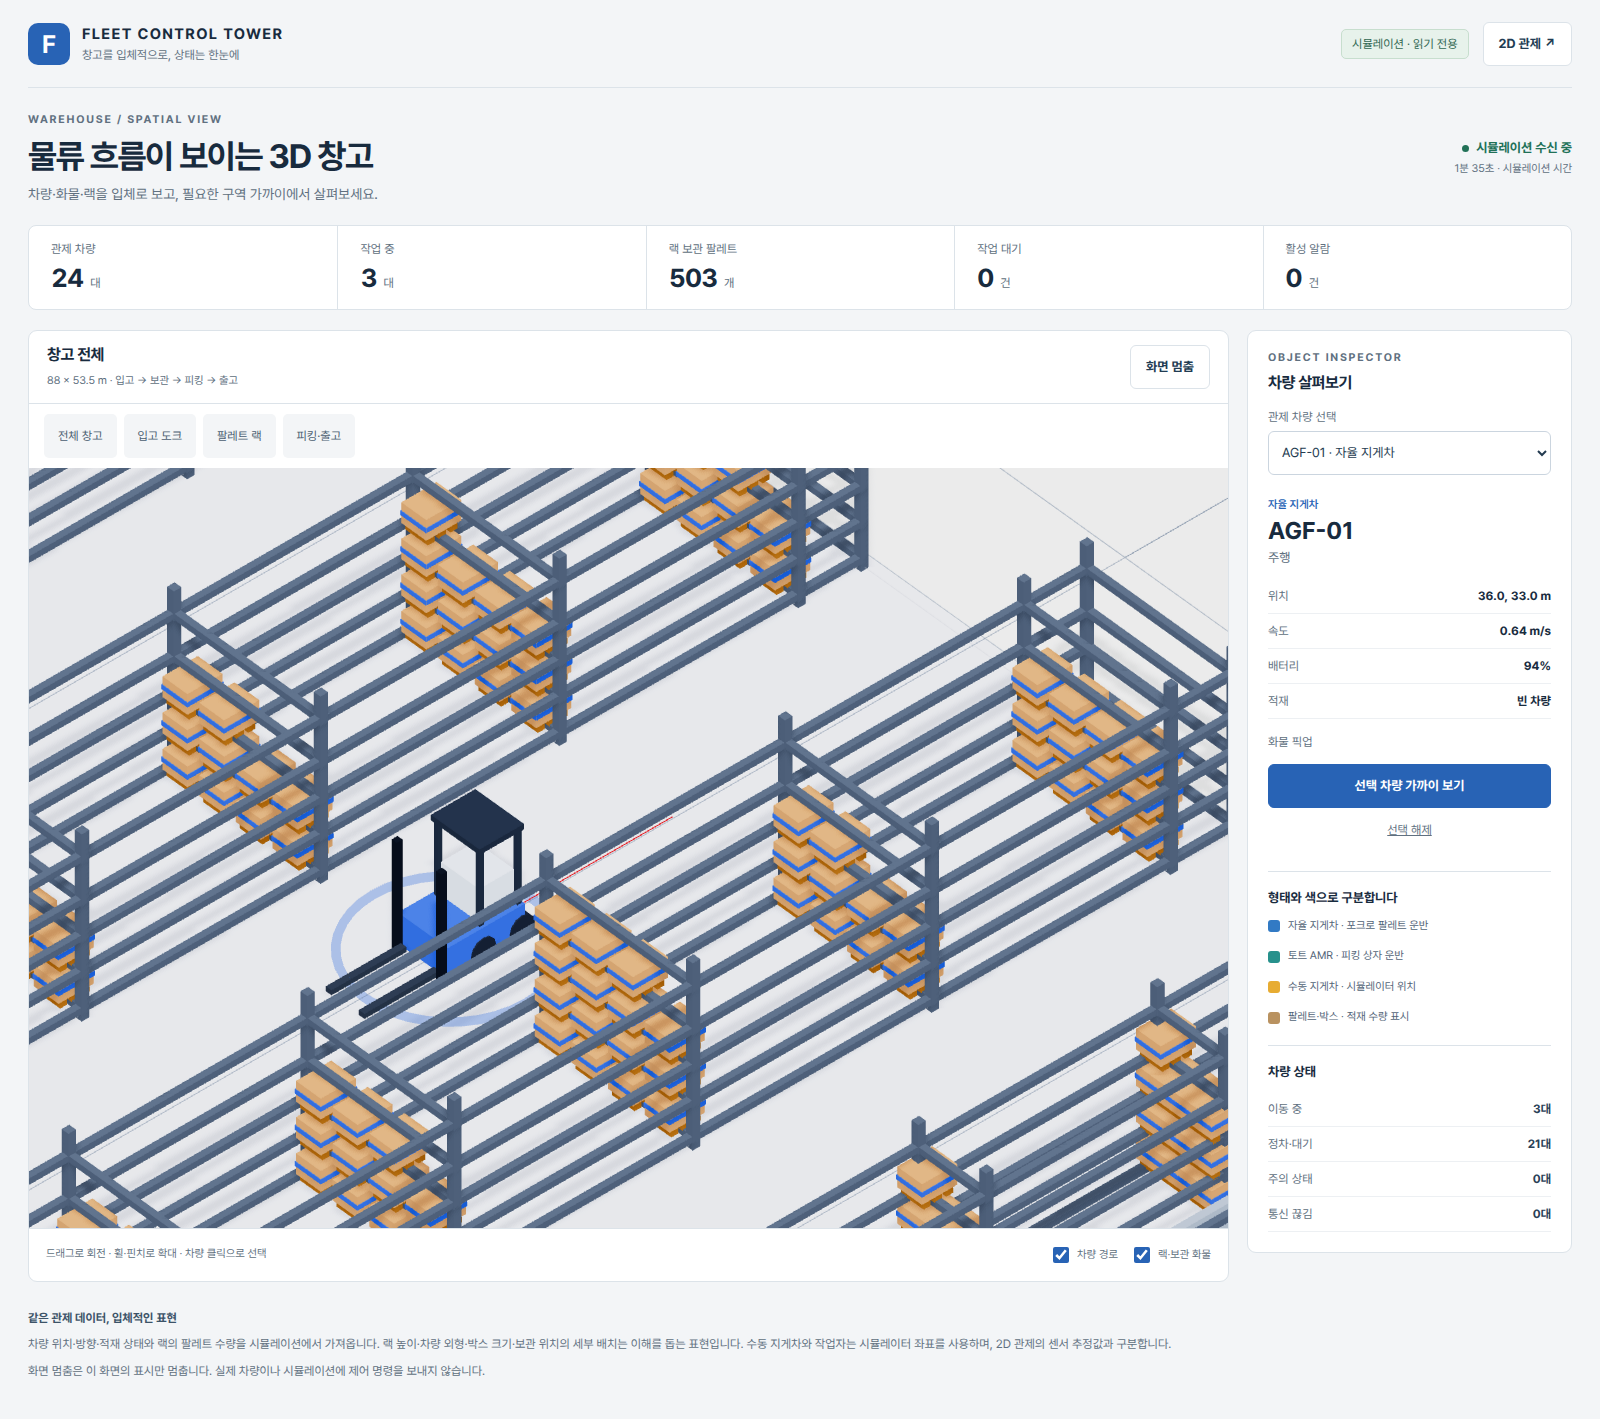
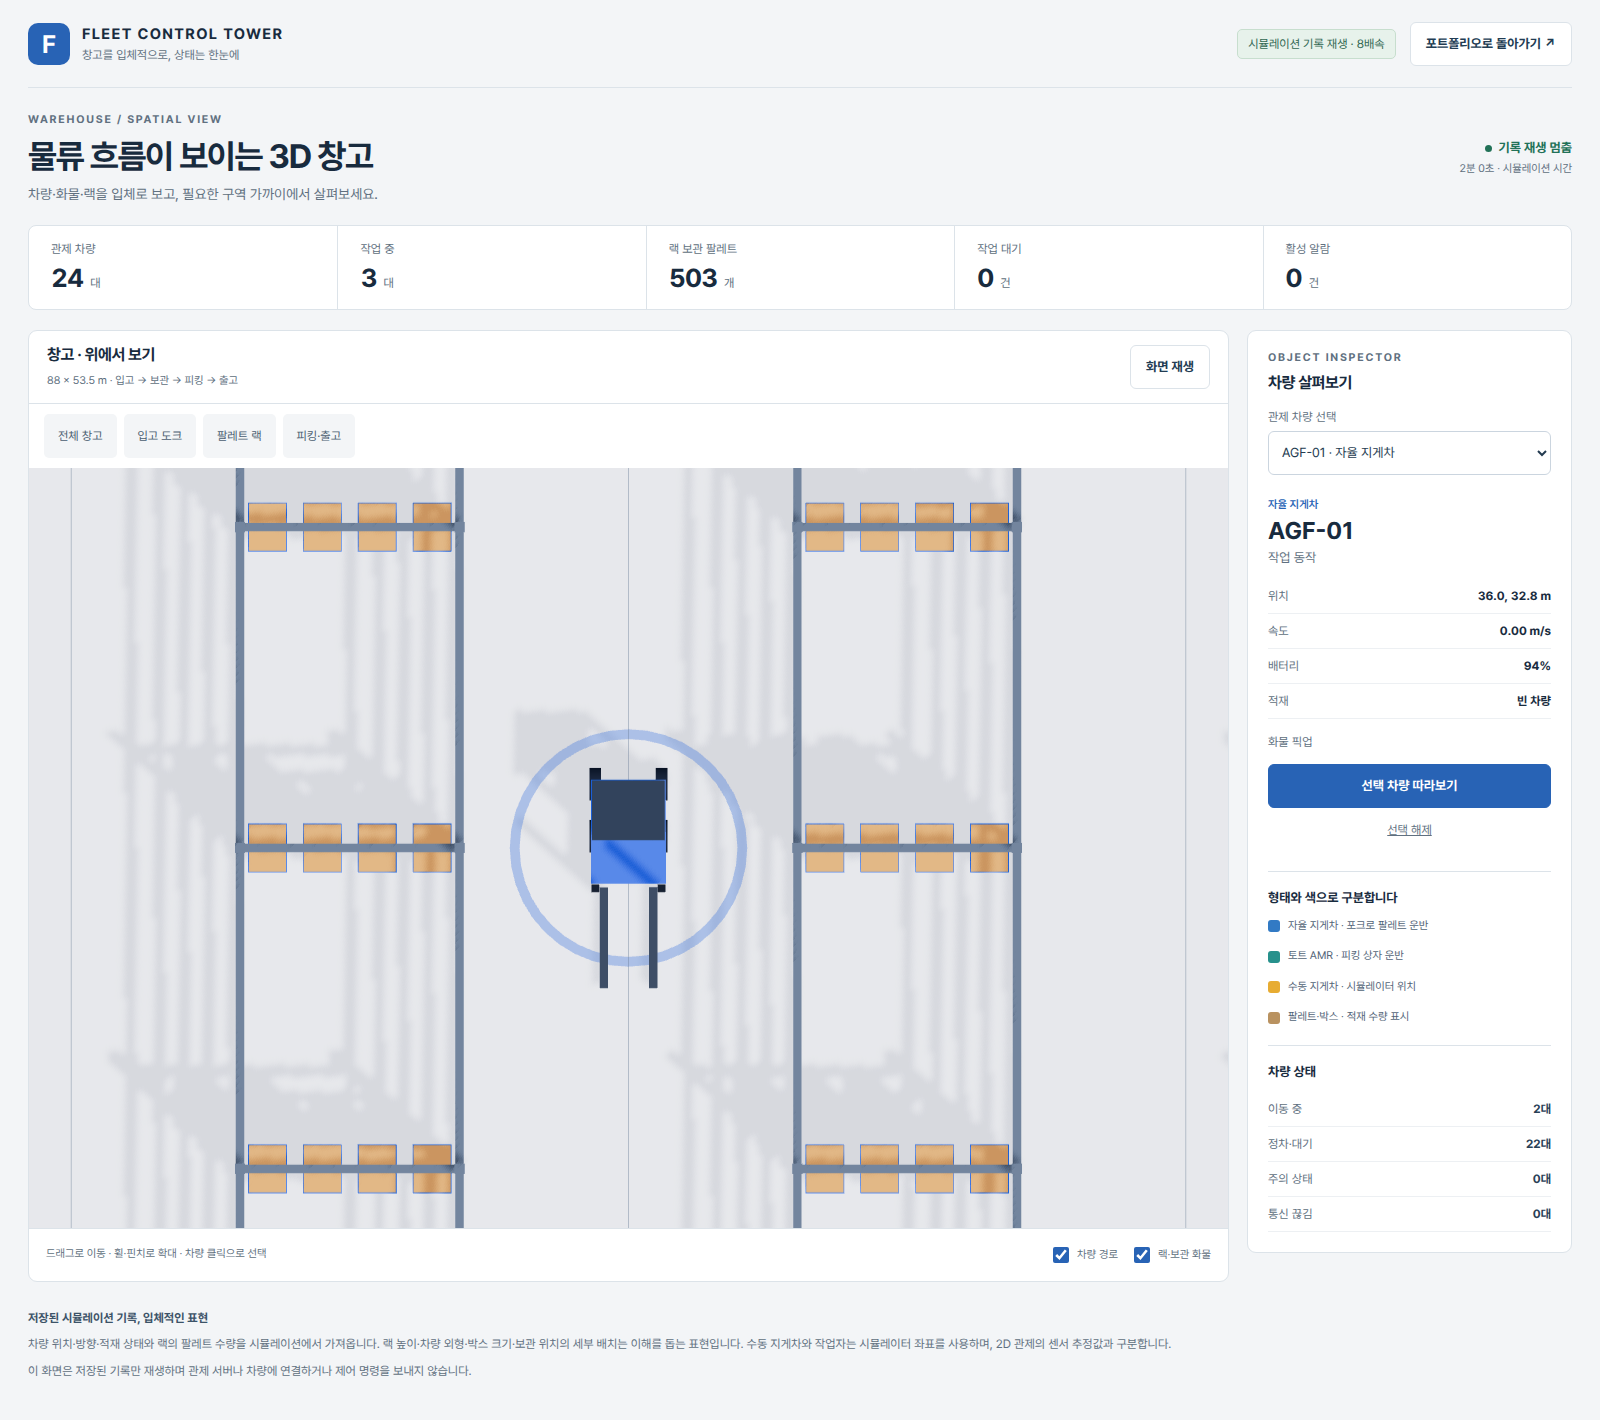
fix(viewer): 창고 시점을 수직 탑뷰로 고정

diff --git a/web3d/src/App.tsx b/web3d/src/App.tsx
@@ -141,14 +141,14 @@ export function App() {
     </section>
     <div className="workspace">
       <section className="scene-panel" aria-labelledby="scene-title">
-        <div className="scene-heading"><div><h2 id="scene-title">창고 전체</h2><span>{layout ? `${layout.width} × ${layout.height} m` : '지도 준비 중'} · 입고 → 보관 → 피킹 → 출고</span></div><button className="button" onClick={togglePause} disabled={!dataReady} aria-pressed={paused}>{paused ? '화면 재생' : '화면 멈춤'}</button></div>
+        <div className="scene-heading"><div><h2 id="scene-title">창고 · 위에서 보기</h2><span>{layout ? `${layout.width} × ${layout.height} m` : '지도 준비 중'} · 입고 → 보관 → 피킹 → 출고</span></div><button className="button" onClick={togglePause} disabled={!dataReady} aria-pressed={paused}>{paused ? '화면 재생' : '화면 멈춤'}</button></div>
         <div className="camera-bar" role="group" aria-label="카메라 위치">
           {([['overview','전체 창고'],['inbound','입고 도크'],['racks','팔레트 랙'],['outbound','피킹·출고']] as const).map(([view,label]) => <button key={view} disabled={!dataReady} aria-pressed={cameraView === view} onClick={() => camera(view)}>{label}</button>)}
         </div>
-        <div className="scene-stage" aria-label="마우스나 터치로 회전·확대할 수 있는 3D 창고. 차량 선택은 옆 목록에서도 가능합니다.">
+        <div className="scene-stage" aria-label="마우스나 터치로 이동·확대할 수 있는 위에서 본 3D 창고. 차량 선택은 옆 목록에서도 가능합니다.">
           {dataReady ? <SceneBoundary fallbackHref={fallbackHref}><Suspense fallback={<div className="scene-message">3D 창고를 불러오는 중입니다.</div>}><WarehouseScene layout={layout} snapshot={snapshot} selected={selected} onSelect={setSelected} cameraView={cameraView} cameraRevision={cameraRevision} showRoutes={showRoutes} showRacks={showRacks} paused={paused} reducedMotion={reducedMotion} /></Suspense></SceneBoundary> : <div className="scene-message"><strong>{error ? (REPLAY_MODE ? '저장된 기록을 확인해 주세요.' : '관제 연결을 확인해 주세요.') : '창고를 준비하고 있습니다.'}</strong><p>{REPLAY_MODE ? '랙과 차량을 저장된 시뮬레이션 기록에서 불러옵니다.' : '랙과 차량을 기존 관제 데이터에서 불러옵니다.'}</p><a href={fallbackHref}>{REPLAY_MODE ? '포트폴리오로 돌아가기' : '2D 관제 열기'}</a></div>}
         </div>
-        <footer className="scene-footer"><p>드래그로 회전 · 휠·핀치로 확대 · 차량 클릭으로 선택</p><div className="layer-controls"><label><input type="checkbox" checked={showRoutes} onChange={e => setShowRoutes(e.target.checked)} />차량 경로</label><label><input type="checkbox" checked={showRacks} onChange={e => setShowRacks(e.target.checked)} />랙·보관 화물</label></div></footer>
+        <footer className="scene-footer"><p>드래그로 이동 · 휠·핀치로 확대 · 차량 클릭으로 선택</p><div className="layer-controls"><label><input type="checkbox" checked={showRoutes} onChange={e => setShowRoutes(e.target.checked)} />차량 경로</label><label><input type="checkbox" checked={showRacks} onChange={e => setShowRacks(e.target.checked)} />랙·보관 화물</label></div></footer>
       </section>
       <aside className="details-panel" aria-label="선택 항목과 화면 설명">
         <div className="details-heading"><p className="eyebrow">OBJECT INSPECTOR</p><h2>차량 살펴보기</h2></div>

diff --git a/web3d/src/WarehouseScene.tsx b/web3d/src/WarehouseScene.tsx
@@ -45,11 +45,12 @@ function SceneCamera({
   useEffect(() => {
     const controls = new OrbitControls(camera, gl.domElement);
     controls.enableDamping = false;
+    controls.enableRotate = false;
     controls.enablePan = true;
+    controls.mouseButtons = { LEFT: THREE.MOUSE.PAN, MIDDLE: THREE.MOUSE.DOLLY, RIGHT: THREE.MOUSE.PAN };
+    controls.touches = { ONE: THREE.TOUCH.PAN, TWO: THREE.TOUCH.DOLLY_PAN };
     controls.minZoom = 1.5;
     controls.maxZoom = 90;
-    controls.minPolarAngle = 0.42;
-    controls.maxPolarAngle = Math.PI / 2.12;
     const render = () => invalidate();
     controls.addEventListener('change', render);
     controlsRef.current = controls;
@@ -70,12 +71,13 @@ function SceneCamera({
       : null;
     const view = cameraView === 'selected' ? 'overview' : cameraView;
     const target = followedPosition ?? cameraTarget(layout, view, robot);
-    const position = cameraPosition(layout, target, cameraView !== 'overview');
+    const position = cameraPosition(layout, target);
     camera.position.copy(position);
-    camera.up.set(0, 1, 0);
+    camera.up.set(0, 0, -1);
+    camera.lookAt(target);
     if (camera instanceof THREE.OrthographicCamera) {
-      const worldWidth = cameraView === 'overview' ? layout.width * 1.22 : cameraView === 'selected' ? 12 : 34;
-      const worldHeight = cameraView === 'overview' ? layout.height * 1.55 : cameraView === 'selected' ? 9 : 27;
+      const worldWidth = cameraView === 'overview' ? layout.width * 1.08 : cameraView === 'selected' ? 12 : 34;
+      const worldHeight = cameraView === 'overview' ? layout.height * 1.08 : cameraView === 'selected' ? 9 : 27;
       camera.zoom = Math.max(1.5, Math.min(size.width / worldWidth, size.height / worldHeight));
       camera.updateProjectionMatrix();
     }
@@ -303,7 +305,7 @@ export default function WarehouseScene(props: SceneProps) {
       orthographic
       frameloop="demand"
       dpr={[1, 1.5]}
-      camera={{ position: [58, 68, 55], zoom: 10.2, near: 0.1, far: 240 }}
+      camera={{ position: [0, 106, 0], up: [0, 0, -1], zoom: 10.2, near: 0.1, far: 1000 }}
       shadows
       gl={{ antialias: true, alpha: false, powerPreference: 'high-performance' }}
       onPointerMissed={() => props.onSelect(null)}

diff --git a/web3d/src/scene-utils.ts b/web3d/src/scene-utils.ts
@@ -81,8 +81,7 @@ export function cameraTarget(layout: Layout, view: 'overview' | 'inbound' | 'rac
   return new THREE.Vector3(0, 0, 0);
 }
 
-export function cameraPosition(layout: Layout, target: THREE.Vector3, close = false) {
+export function cameraPosition(layout: Layout, target: THREE.Vector3) {
   const span = Math.max(layout.width, layout.height);
-  const distance = close ? span * 0.34 : span * 0.82;
-  return target.clone().add(new THREE.Vector3(distance * 0.78, distance * 0.88, distance * 0.7));
+  return target.clone().add(new THREE.Vector3(0, span * 1.2, 0));
 }

diff --git a/README.md b/README.md
@@ -20,7 +20,7 @@
 
 기존 관제 데이터를 React와 React Three Fiber로 입체적으로 표시합니다. 2D 지도에서 **3D 보기**를 누르거나 `/3d/`로 이동합니다.
 
-[공개 3D 창고 데모](https://mmporong-portfolio.vercel.app/fleet-3d/index.html)는 저장된 시뮬레이션의 120–240초 구간을 8배속으로 반복합니다. 회전·확대·차량 선택을 지원하며 서버 연결 없이 기록을 재생합니다. 아래 Python 실행은 같은 3D 화면에 실행 중인 시뮬레이션 데이터를 연결합니다.
+[공개 3D 창고 데모](https://mmporong-portfolio.vercel.app/fleet-3d/index.html)는 저장된 시뮬레이션의 120–240초 구간을 8배속으로 반복합니다. 직사각형으로 정렬한 위 시점에서 이동·확대·차량 선택을 지원하며 서버 연결 없이 기록을 재생합니다. 아래 Python 실행은 같은 3D 화면에 실행 중인 시뮬레이션 데이터를 연결합니다.
 
 ![실제 시뮬레이션 데이터로 표시한 3D 창고와 관제 현황](docs/img/warehouse-3d.png)
 
@@ -33,7 +33,7 @@
 
 - 자율 지게차·수동 지게차는 포크·마스트·바퀴·운전석을, 토트 AMR은 낮은 차체와 적재 상자를 구분해 표시합니다.
 - 랙의 팔레트 수량, 입출고 스테이징 화물, 차량의 위치·방향·적재 여부를 기존 시뮬레이션에서 가져옵니다. 랙 높이·외형·화물 치수와 개별 보관 위치의 세부 배치는 설명용입니다.
-- 전체 창고·입고·랙·피킹과 출고 카메라, 차량 선택과 근접 보기, 랙 숨기기, 화면 멈춤을 제공합니다. 화면 멈춤은 표시만 멈추며 제어 명령을 보내지 않습니다.
+- 위에서 내려다보는 전체 창고·입고·랙·피킹과 출고 카메라, 차량 선택과 따라보기, 랙 숨기기, 화면 멈춤을 제공합니다. 화면 멈춤은 표시만 멈추며 제어 명령을 보내지 않습니다.
 - 수동 지게차와 사람은 시뮬레이터 좌표로 표현합니다. 2D 관제의 센서 추정값과 구분하며, MQTT 실운영 화면에서는 이 시뮬레이션 전용 보기를 열지 않습니다.
 - 3D 코드는 별도 경로에서 지연 로드합니다. 2D 화면에는 3D 라이브러리를 내려받지 않으며, 그래픽 지원 오류 때도 2D 관제를 사용할 수 있습니다.
 
